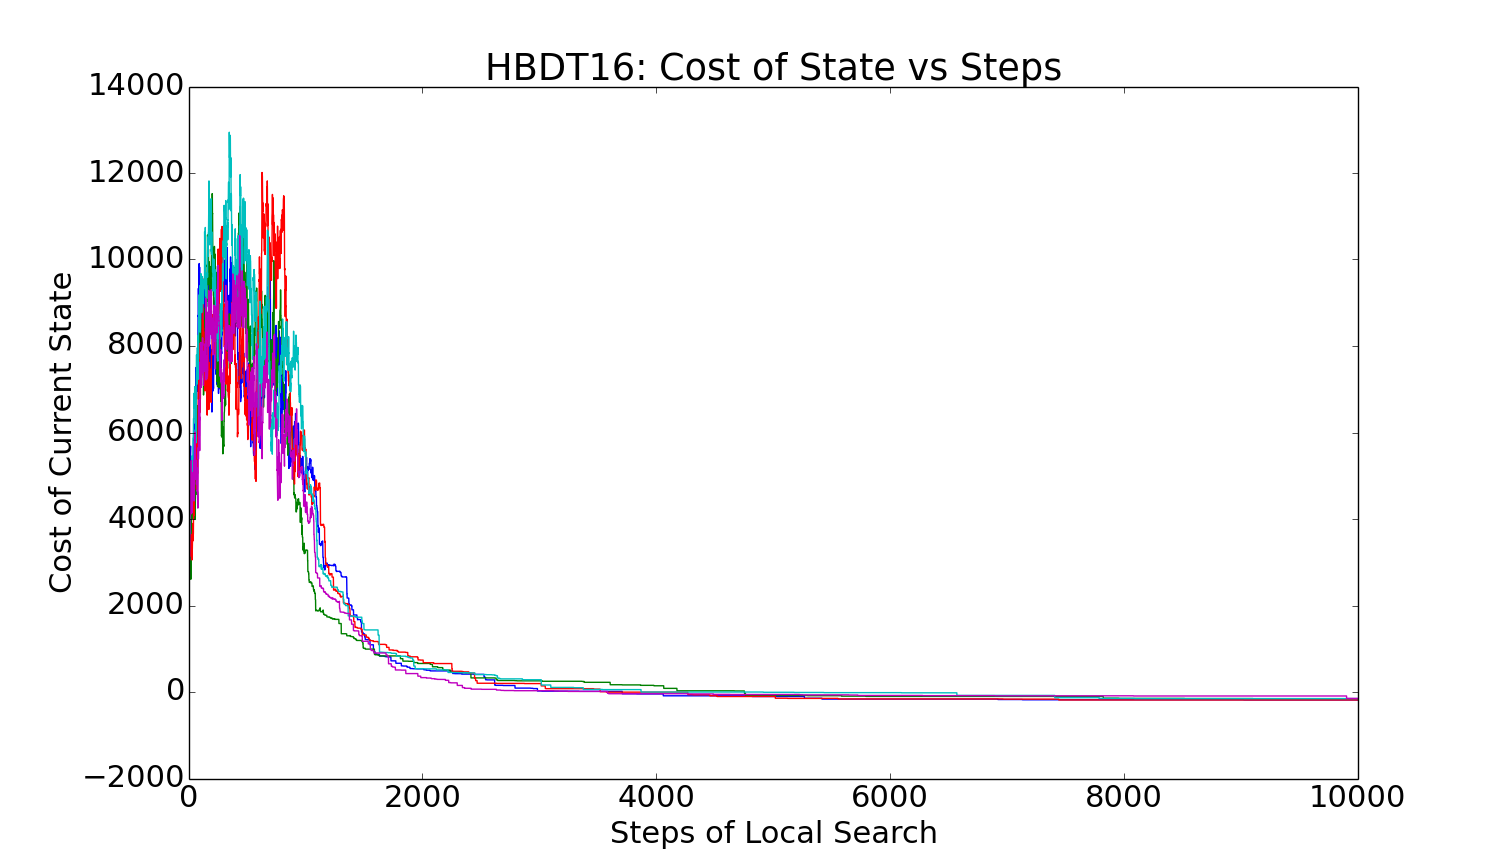
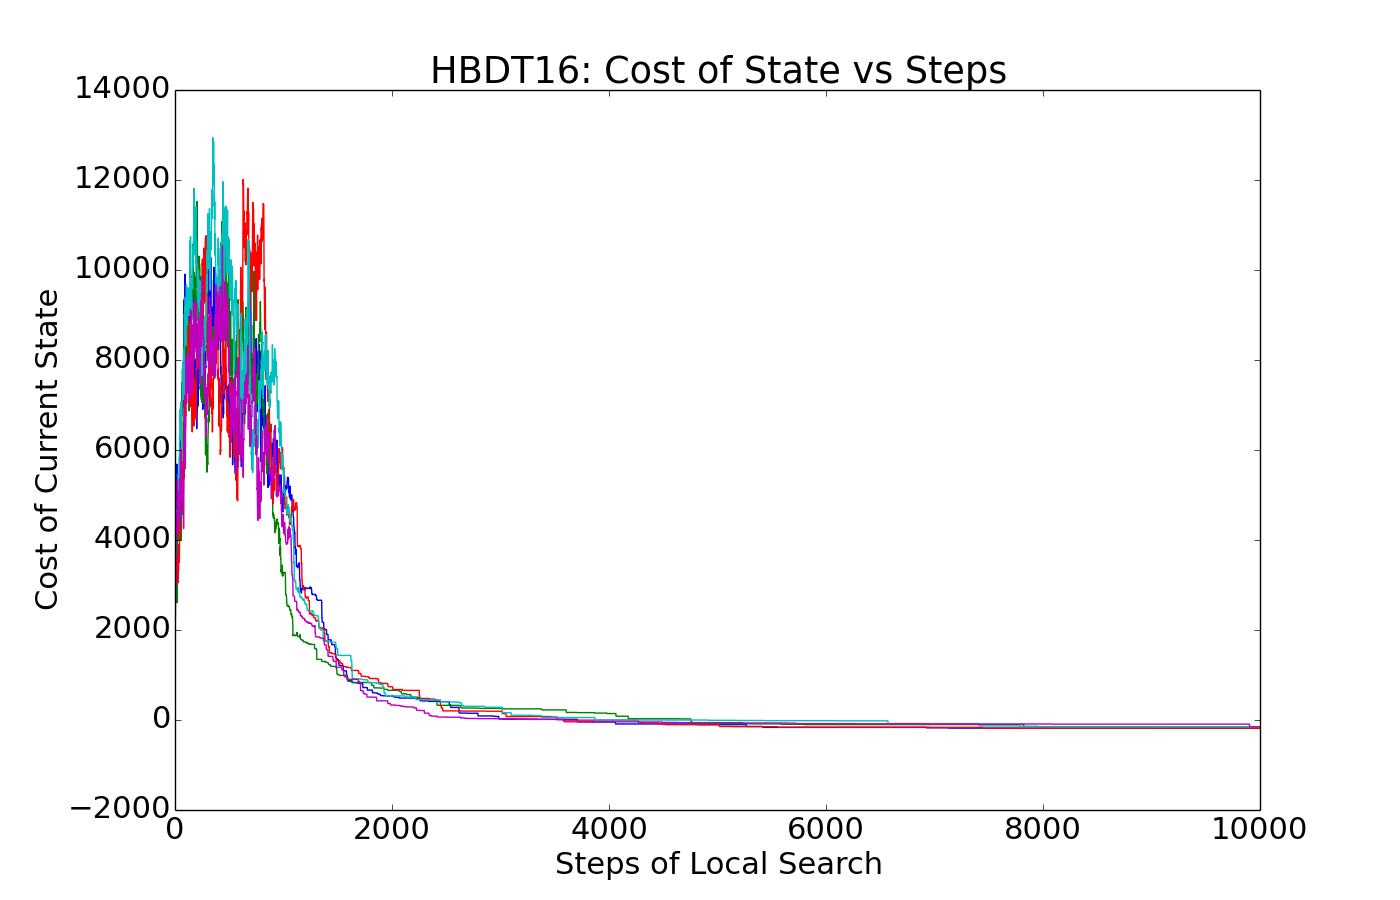
updated analysis pics

diff --git a/Analysis/graph_nums.py b/Analysis/graph_nums.py
@@ -2,7 +2,7 @@ import matplotlib.pyplot as plt
 import numpy as np
 
 for filenum in range(5):
-    fin = open('scores_over_time2014_{}.txt'.format(filenum),'r')
+    fin = open('scores_over_time{}.txt'.format(filenum),'r')
 
     scores = []
     for line in fin:
@@ -12,8 +12,9 @@ for filenum in range(5):
 
     plt.rc('font', **font)
 
-    plt.title("HBDT14: Cost of State vs Steps")
+    plt.figure(1, figsize = (14,9))
+    plt.title("HBDT16: Cost of State vs Steps")
     plt.xlabel("Steps of Local Search")
     plt.ylabel("Cost of Current State")
     plt.plot(scores)
-plt.show()
+plt.savefig("HBDT16_cost_vs_time.png")
